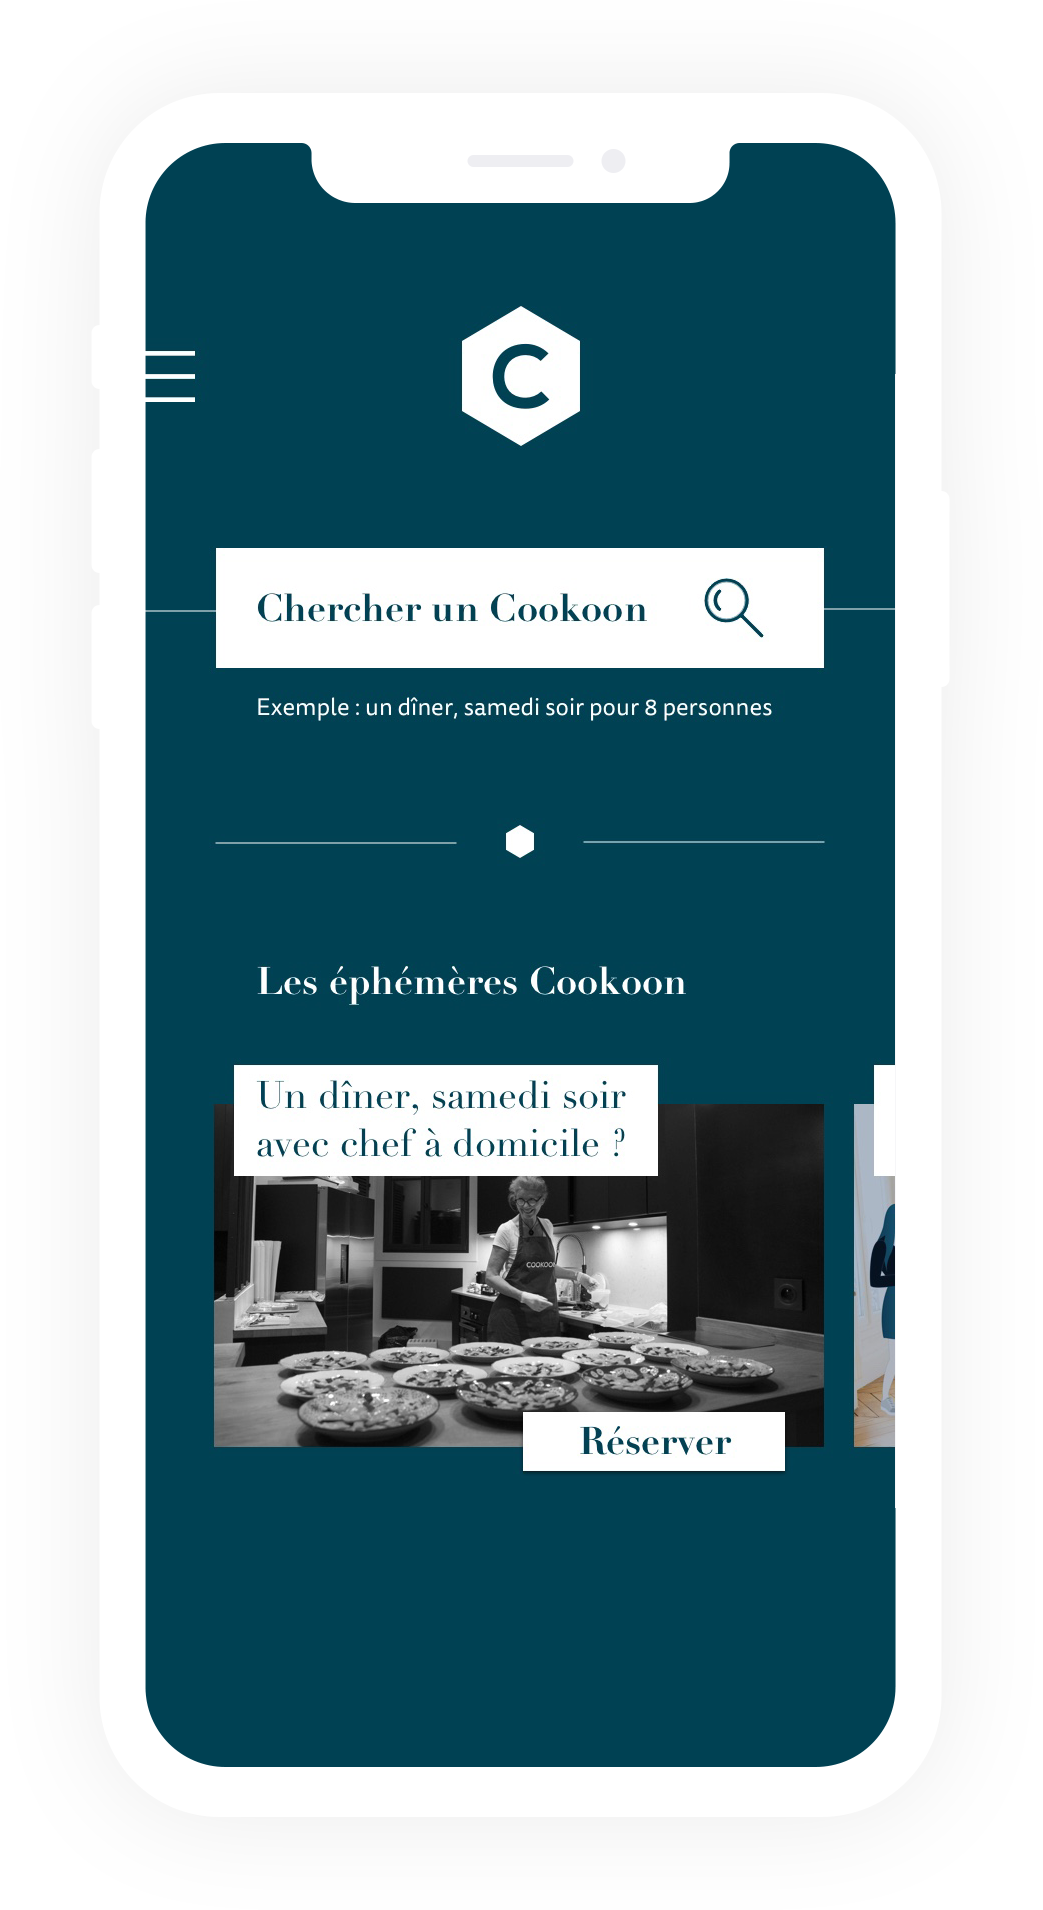
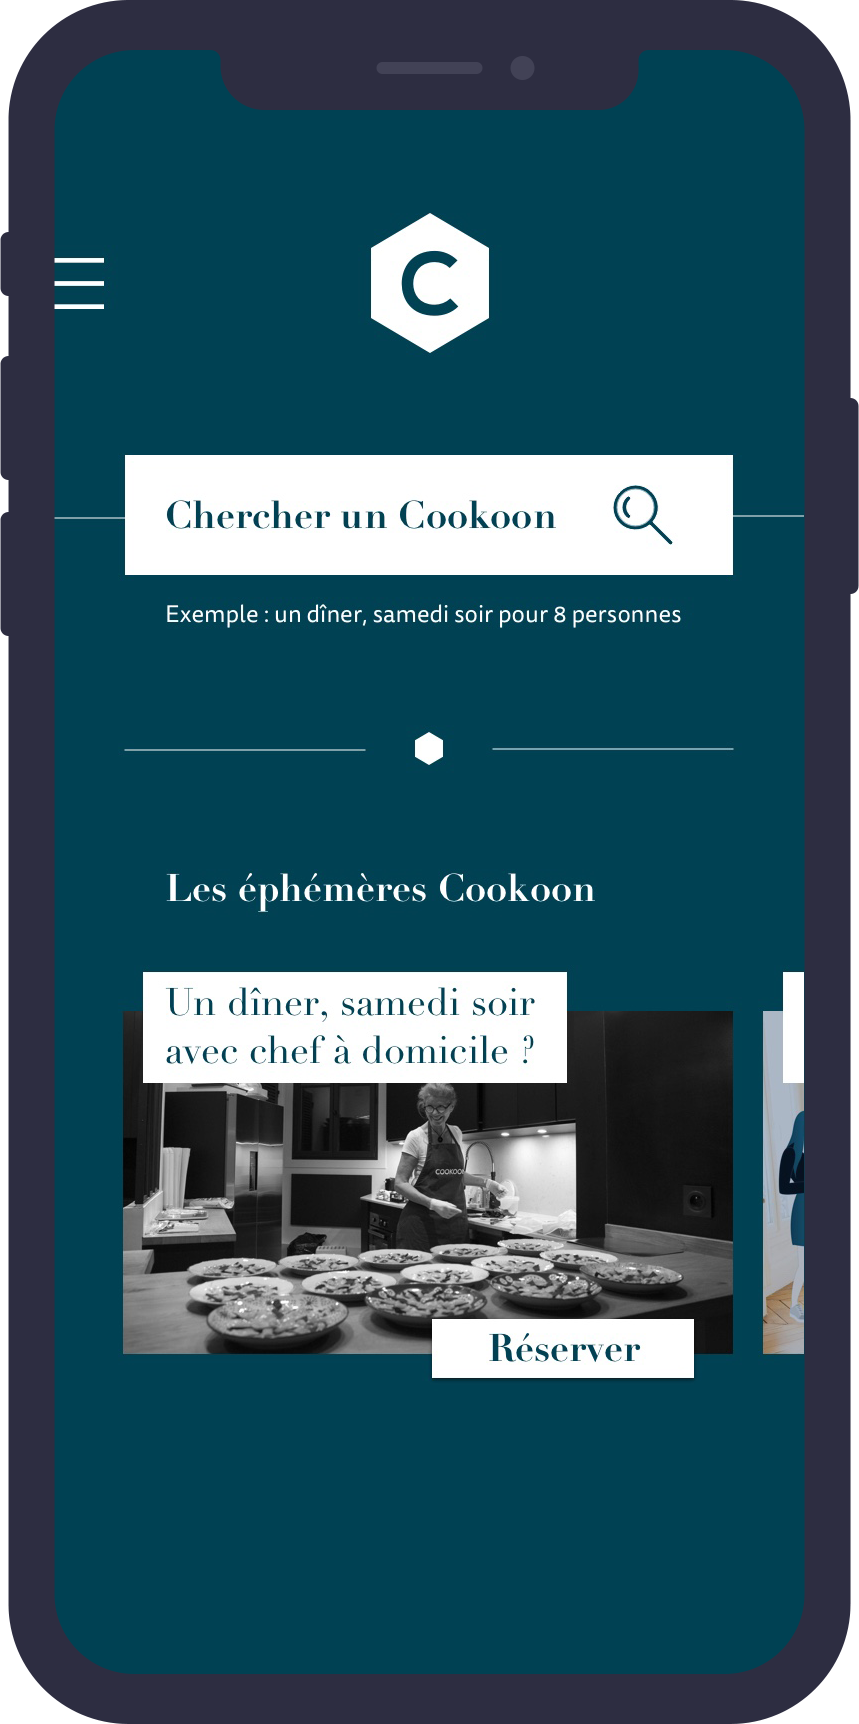
Change Iphone Frame

diff --git a/src/components/Banner/index.js b/src/components/Banner/index.js
@@ -16,7 +16,7 @@ const Banner = ({ children }) => (
           <img alt="Cookoon" src={logo} className="mb-4" />
           {children}
         </div>
-        <div className="col-md-5 col-lg-4 offset-xl-1 col-xl-3 d-flex justify-content-center">
+        <div className="col-md-5 col-lg-4 offset-xl-1 col-xl-3 d-flex justify-content-center xs-frame-shadow">
           <DeviceFrame />
         </div>
       </div>

diff --git a/src/styles/components/device-frame.scss b/src/styles/components/device-frame.scss
@@ -16,6 +16,9 @@
   .device-frame {
     width: 90%;
   }
+  .xs-frame-shadow {
+    background: linear-gradient(0deg, #f8f9fa9c, #004254);
+  }
 }
 
 @media (max-width: 320px) {
